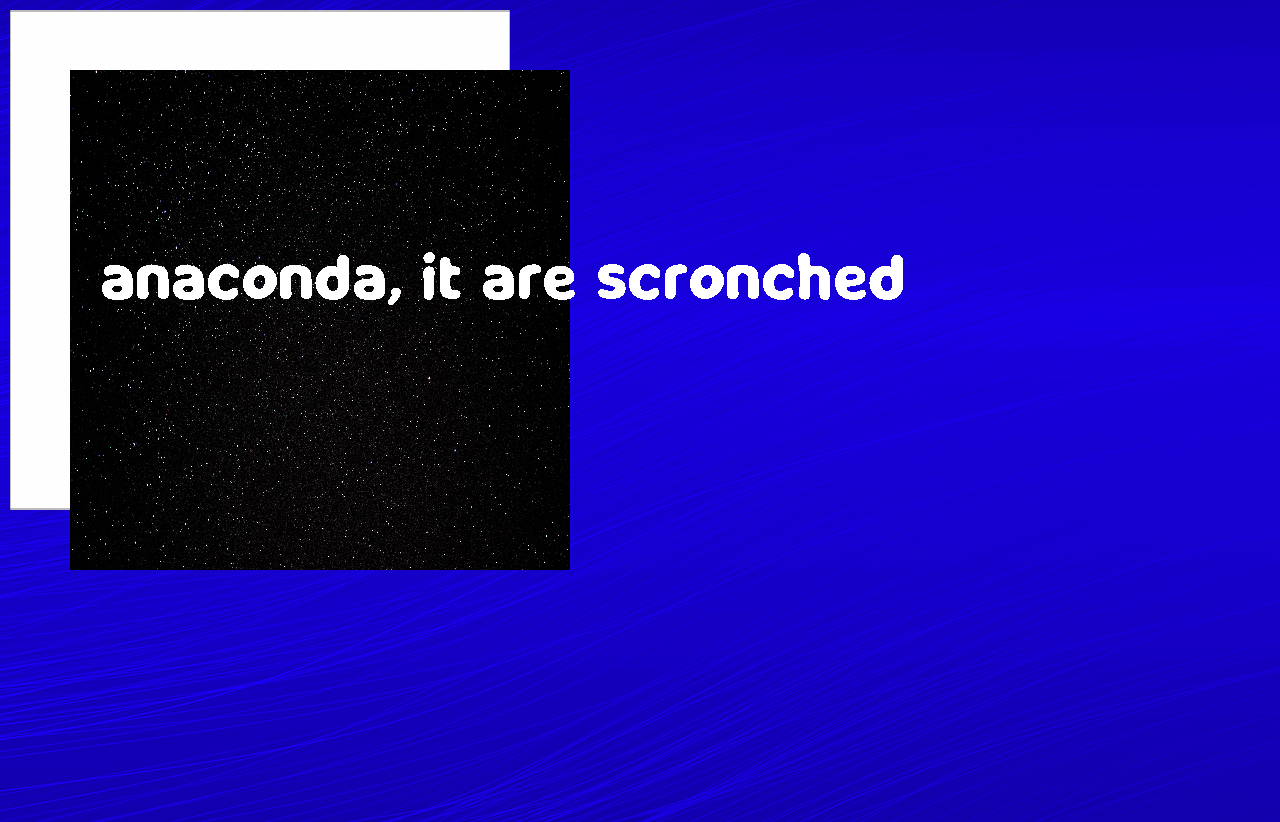
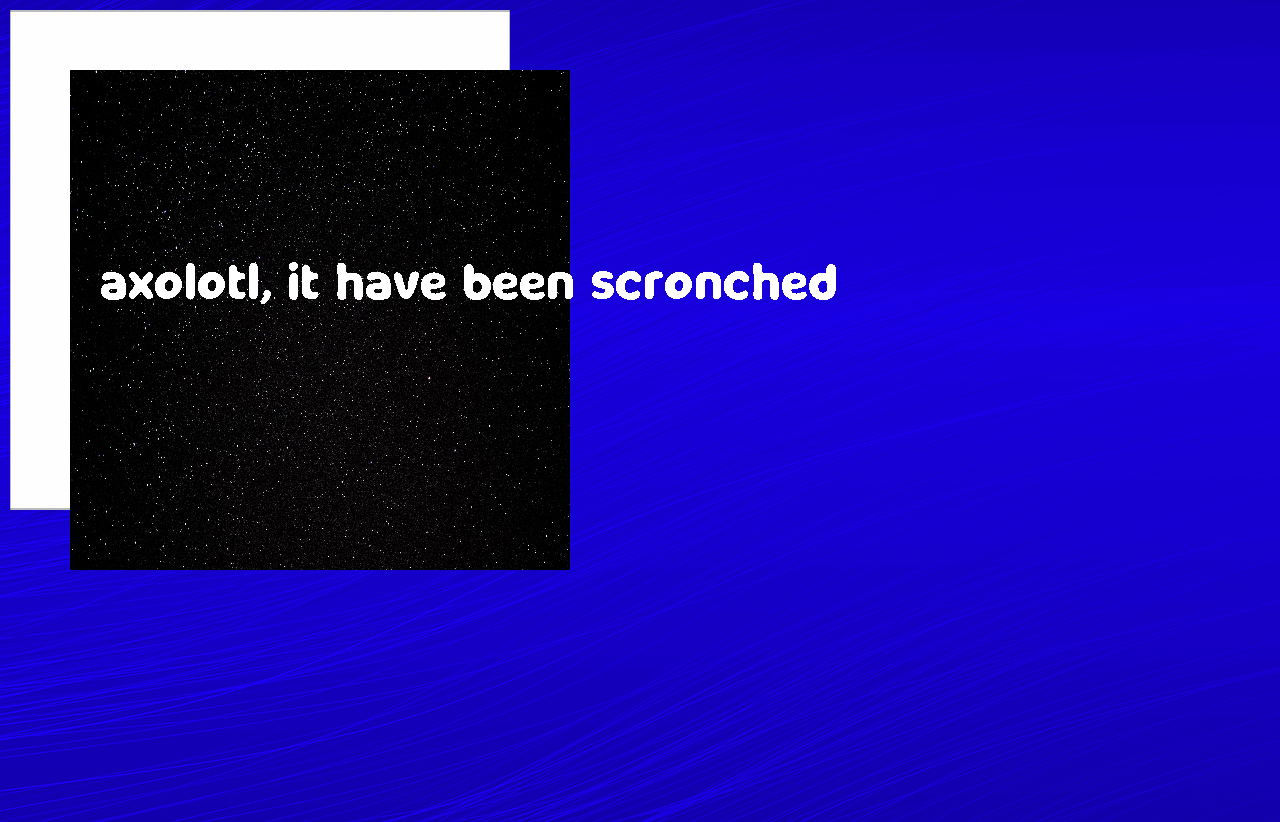
Fixed Bug: RandomWord returns null

Changed region(s): [[0.0625, 0.3041, 0.7188, 0.365]]

diff --git a/src/TextIO/TextParser.java b/src/TextIO/TextParser.java
@@ -1,65 +1,62 @@
 package TextIO;
 
-import TextIO.TextClasses.*;
 import java.io.BufferedReader;
-import java.io.FileNotFoundException;
 import java.io.FileReader;
 import java.io.IOException;
 import java.util.*;
-import java.util.stream.Collectors;
 
 /**
  * The TextParser class parses the dictionary
  * Returns a random word that is found in the dictionary
  */
 public class TextParser {
-    final List<String> availableTypes = Arrays.asList("Nouns", "Verbs", "Adjectives", "Conjunctions", "LinkingVerbs");
+    final HashSet<String> availableTypes = new HashSet<String>(Arrays.asList("Nouns", "Verbs", "Adjectives", "Conjunctions", "LinkingVerbs"));
     BufferedReader bfdRead;
     Random r = new Random();
 
     /**
      * Takes in a String and Type
      * Returns a random word that is found in the dictionary
+     *
      * @param textClass The class of an object, e.g. Furniture, Animal, Metal, etc. If none, use null
-     * @param type The type of the word, i.e. Noun, Verb or Name
+     * @param type      The type of the word, i.e. Noun, Verb or Name
      * @return Returns a String that is a random word
      */
     public String RandomWord(String textClass, String type) {
         String randWord = null;
-        List<String> lValues = null;
-        if(textClass == null) textClass = RandomTextClass(type);
+        List<String> lValues;
+        if (textClass == null) textClass = RandomTextClass(type);
 
+        // Get a list of the parse dictionary words
         try {
-            // Get a list of the parse dictionary words
             lValues = ParseText(textClass, type);
-            if (lValues != null) randWord = lValues.get(r.nextInt(lValues.size()));
+            if(lValues == null) lValues = ParseText(RandomTextClass(type), type);
+            randWord = lValues.get(r.nextInt(lValues.size()));
+            return randWord;
         } catch (Exception e) {
-            try {
-                lValues = ParseText(RandomTextClass(type), type);
-                if (lValues != null) randWord = lValues.get(r.nextInt(lValues.size()));
-            } catch (Exception exception) {
-                exception.printStackTrace();
-            }
+            e.printStackTrace();
         }
-        return randWord;
+        return null;
     }
 
-    final HashMap<String, List<String>> cachedParsedText = new HashMap<>();
+    final Map<String, List<String>> cachedParsedText = new HashMap<>();
 
     /**
      * Takes in a TextClass and type
      * Checks the cached text and if it exists, returns it
      * Otherwise reads the [type].list and appends it to an ArrayList
      * Returns the filteredList as an ArrayList of Strings
+     *
      * @param textClass The class of an object, e.g. Furniture, Animal, Metal, etc.
-     * @param type The type of the word, i.e. Noun, Verb or Name
+     * @param type      The type of the word, i.e. Noun, Verb or Name
      * @return Returns an filtered ArrayList of Strings containing all the words in the [type].list
      * @throws Exception Throws and Error if the provided type does not exist
      */
     private List<String> ParseText(String textClass, String type) throws Exception {
-        if(!availableTypes.contains(type)) throw new IllegalArgumentException("String type is not legal : Must be [Nouns], [Verbs] or [Name]");
+        if (!availableTypes.contains(type))
+            throw new IllegalArgumentException("String type is not legal : Must be [Nouns], [Verbs] or [Name]");
 
-        if(cachedParsedText.containsKey(textClass + type)) return cachedParsedText.get(textClass + type);
+        if (cachedParsedText.get(textClass + type) != null) return cachedParsedText.get(textClass + type);
 
         // Initialize Variables
         List<String> content = new ArrayList<>();
@@ -67,8 +64,8 @@ public class TextParser {
         String line;
 
         // Iterates through each line, filters the one matching the textClass and returns it
-        while((line = bfdRead.readLine()) != null) {
-            if(!line.startsWith(textClass)) continue;
+        while ((line = bfdRead.readLine()) != null) {
+            if (!line.startsWith(textClass)) continue;
             List<String> fLine = Arrays.asList(line.split(textClass + ":: ")[1].split(","));
             cachedParsedText.put(textClass + type, fLine);
             return fLine;
@@ -80,6 +77,7 @@ public class TextParser {
      * Takes in a String
      * Create a new ArrayList and initializes the BufferedReader
      * Uses the BufferedReader to append all the TextClasses to the ArrayList
+     *
      * @param filetype The type of file to search
      * @return Returns a String that is one of the textClasses in the filetype
      */
@@ -91,8 +89,8 @@ public class TextParser {
             String line;
 
             // Iterates through each line of the file and adds the split lines;
-            while((line = bfdRead.readLine()) != null) {
-                if(line.isEmpty() || line.startsWith("//") || line.contains("!")) continue;
+            while ((line = bfdRead.readLine()) != null) {
+                if (line.isEmpty() || line.startsWith("//") || line.contains("!")) continue;
                 textClasses.add(line.split(":: ")[0]);
             }
         } catch (IOException e) {

diff --git a/src/TextIO/SentenceCreator.java b/src/TextIO/SentenceCreator.java
@@ -4,8 +4,6 @@ import java.io.BufferedReader;
 import java.io.FileReader;
 import java.io.IOException;
 import java.util.ArrayList;
-import java.util.Arrays;
-import java.util.List;
 import java.util.Random;
 
 /**
@@ -20,6 +18,7 @@ public class SentenceCreator {
      * Create a sentence
      * Gets a random SentenceStructure from the list
      * Appends an appropriate word to the sentence
+     *
      * @return Returns a String that is the sentence
      */
     public String CreateSentence() {
@@ -32,20 +31,20 @@ public class SentenceCreator {
             String[] wordStruct = GetRandomSentenceStructure();
 
             // Iterates through each of the structs
-            for(String word : wordStruct) {
-                if(word.equals("<Subject>")) {
+            for (String word : wordStruct) {
+                if (word.equals("<Subject>")) {
                     sentence.append(tParser.RandomWord(ConfigEditor.GetConfig("Subject"), "Nouns"));
-                } else if(word.equals("<MVerb>")) {
+                } else if (word.equals("<MVerb>")) {
                     sentence.append(ConfigEditor.GetConfig("MVerb"));
-                }else if(word.startsWith("<!W>::")) {
+                } else if (word.startsWith("<!W>::")) {
                     sentence.append(word.split("::")[1]);
-                } else if(word.startsWith("<!S>::")) {
+                } else if (word.startsWith("<!S>::")) {
                     sentence.append(tParser.RandomWord(word.split("::")[1], word.split("::")[2]));
-                } else if(word.startsWith("<?O>")) {
-                    if(new Random().nextFloat() > 0.5) sentence.append(tParser.RandomWord(null, word.split("::")[1]));
-                } else if(word.startsWith("<$")) {
+                } else if (word.startsWith("<?O>")) {
+                    if (new Random().nextFloat() > 0.5) sentence.append(tParser.RandomWord(null, word.split("::")[1]));
+                } else if (word.startsWith("<$")) {
                     sentence.deleteCharAt(sentence.length() - 1).append(word.charAt(2));
-                }else {
+                } else {
                     sentence.append(tParser.RandomWord(null, word));
                 }
                 sentence.append(" ");
@@ -59,6 +58,7 @@ public class SentenceCreator {
     /**
      * Gets a random SentenceStructure
      * Creates a BufferedReader and uses it to get a random structure from the list
+     *
      * @return Returns a String that is the SentenceStructure
      * @throws IOException If an error occurs during the file parsing, it will be thrown
      */
@@ -68,8 +68,8 @@ public class SentenceCreator {
         String line;
 
         // Iterate through the file
-        while((line = bfdRead.readLine()) != null) {
-            if(line.startsWith("//") || line.isEmpty()) continue;
+        while ((line = bfdRead.readLine()) != null) {
+            if (line.startsWith("//") || line.isEmpty()) continue;
             wordStruct.add(line);
         }
 

diff --git a/src/ResourceIO/ImageEditor.java b/src/ResourceIO/ImageEditor.java
@@ -1,6 +1,7 @@
 package ResourceIO;
 
 import Util.Tuple;
+
 import java.awt.*;
 import java.awt.image.BufferedImage;
 
@@ -20,8 +21,9 @@ public class ImageEditor {
     /**
      * Takes in a new image, size and position
      * Draws the new image to the base image
-     * @param image - The new image to be drawn
-     * @param size - The size of the new image
+     *
+     * @param image    - The new image to be drawn
+     * @param size     - The size of the new image
      * @param position - The position of the new image
      */
     public void AddImage(BufferedImage image, Tuple<Integer, Integer> size, Tuple<Integer, Integer> position) {
@@ -34,9 +36,10 @@ public class ImageEditor {
      * Takes in a String and Position
      * Sets color to contrast background
      * Draws text to the base image
-     * @param bg The background image
-     * @param text The Text to be drawn
-     * @param font The Font to be used
+     *
+     * @param bg       The background image
+     * @param text     The Text to be drawn
+     * @param font     The Font to be used
      * @param position The position of where the text will be drawn
      */
     public void AddText(BufferedImage bg, String text, Tuple<String, Float> font, Tuple<Integer, Integer> position) {
@@ -57,17 +60,18 @@ public class ImageEditor {
      * Takes in text and boundary config
      * Resizes text to fit within boundary
      * Draws the text to base image
-     * @param text The text to be added
-     * @param padding The padding (width * 2) of the boundary
+     *
+     * @param text        The text to be added
+     * @param padding     The padding (width * 2) of the boundary
      * @param currentSize The current/default size of the font
-     * @param position The position of where the text should be drawn
-     * @param font The font of the text
+     * @param position    The position of where the text should be drawn
+     * @param font        The font of the text
      */
     private void DrawStringWithResizedText(String text, int padding, float currentSize, Tuple<Integer, Integer> position, Font font) {
         g2d.setFont(font.deriveFont(currentSize));
 
         // Loops though sizes until text fits horizontally
-        while(g2d.getFontMetrics().stringWidth(text) + position.x > bg.getWidth() - (padding * 2)) {
+        while (g2d.getFontMetrics().stringWidth(text) + position.x > bg.getWidth() - (padding * 2)) {
             currentSize -= currentSize / 5;
             g2d.setFont(font.deriveFont(currentSize));
         }

diff --git a/src/ResourceIO/ImageLoader.java b/src/ResourceIO/ImageLoader.java
@@ -2,12 +2,12 @@ package ResourceIO;
 
 import Util.ColorIO;
 import Util.Tuple;
+
 import javax.imageio.ImageIO;
 import java.awt.*;
 import java.awt.image.BufferedImage;
 import java.io.File;
 import java.io.IOException;
-import java.util.Arrays;
 
 /**
  * The ImageLoader class loads and saves images as well as other utility methods
@@ -16,6 +16,7 @@ public class ImageLoader {
 
     /**
      * Takes in a filename and loads that file through the Resources path
+     *
      * @param name The name of the file
      * @return Returns a BufferedImage
      */
@@ -35,9 +36,10 @@ public class ImageLoader {
      * Takes in an image, start position and area
      * Compares the light-dark RGB values to the sampled RGB values
      * Return WHITE or BLACK as a Color
+     *
      * @param image The background image
      * @param start The start position of the area
-     * @param size The size of the area
+     * @param size  The size of the area
      * @return return WHITE or BLACK as a Color
      */
     public Color GetDefaultImageColor(BufferedImage image, Tuple<Integer, Integer> start, Tuple<Float, Float> size) {
@@ -48,13 +50,15 @@ public class ImageLoader {
         float[] cRGB = {rgbValues[0] / (size.x * size.y), rgbValues[1] / (size.x * size.y), rgbValues[2] / (size.x * size.y)};
 
         // Compares the RGB values
-        if((cRGB[0] < 180 && cRGB[1] < 100 && cRGB[2] >= 245) || (cRGB[0] < 115 && cRGB[1] < 115 && cRGB[2] < 190)) return Color.WHITE;
+        if ((cRGB[0] < 180 && cRGB[1] < 100 && cRGB[2] >= 245) || (cRGB[0] < 115 && cRGB[1] < 115 && cRGB[2] < 190))
+            return Color.WHITE;
         return Color.BLACK;
     }
 
     /**
      * Takes in String and writes the edited image to the desired location
-     * @param name The name of the file
+     *
+     * @param name  The name of the file
      * @param image The final image
      */
     public void SaveImage(String name, BufferedImage image) {

diff --git a/src/Util/ColorIO.java b/src/Util/ColorIO.java
@@ -12,20 +12,21 @@ public class ColorIO {
      * Takes in an image, size and position
      * Iterates through each pixel and add the RGB values
      * Converts the RGB values to integers
-     * @param image The image to be used
+     *
+     * @param image    The image to be used
      * @param startPos The start position of the iteration-area
-     * @param size The area of the to-be-iterated pixels
+     * @param size     The area of the to-be-iterated pixels
      * @return Return a long[] with the sums of the RGB values
      */
     public long[] GetSampleColorOfArea(BufferedImage image, Tuple<Integer, Integer> startPos, Tuple<Float, Float> size) {
 
         // Iterates through the columns
-        for(int iW = 0; iW < image.getWidth(); iW++) {
-            if(iW < startPos.x || iW >= startPos.x + size.x ) continue;
+        for (int iW = 0; iW < image.getWidth(); iW++) {
+            if (iW < startPos.x || iW >= startPos.x + size.x) continue;
 
             // Iterates through the rows
-            for(int iH = 0; iH < image.getHeight(); iH++) {
-                if(iH < startPos.y || iH >= startPos.y + size.y) continue;
+            for (int iH = 0; iH < image.getHeight(); iH++) {
+                if (iH < startPos.y || iH >= startPos.y + size.y) continue;
 
                 // Converts the RGB values from bits to ints
                 int pixel = image.getRGB(iW, iH);

diff --git a/src/TextIO/ConfigEditor.java b/src/TextIO/ConfigEditor.java
@@ -12,7 +12,7 @@ public class ConfigEditor {
             String subject = tParser.RandomTextClass("Nouns");
 
             prtWrite.write("Subject:: " + subject + "\n");
-            if(new Random().nextFloat() > 0) {
+            if (new Random().nextFloat() > 0) {
                 prtWrite.write("MVerb:: " + tParser.RandomWord(subject + "!", "Verbs"));
             } else {
                 prtWrite.write("MVerb:: " + tParser.RandomWord(null, "Verbs"));
@@ -30,9 +30,9 @@ public class ConfigEditor {
             BufferedReader bfdRead = new BufferedReader(new FileReader("Resources/Data/config.data"));
             String line;
 
-            while((line = bfdRead.readLine()) != null) {
+            while ((line = bfdRead.readLine()) != null) {
                 String[] sLine = line.split(":: ");
-                if(sLine[0].equals(config)) configLine = sLine[1];
+                if (sLine[0].equals(config)) configLine = sLine[1];
             }
         } catch (IOException e) {
             e.printStackTrace();

diff --git a/src/ResourceIO/FontLoader.java b/src/ResourceIO/FontLoader.java
@@ -15,6 +15,7 @@ public class FontLoader {
      * Takes in a String name
      * Checks if the font already exists on cache and returns it
      * Otherwise create the fond and add it to cache
+     *
      * @param name The name of the font
      * @return The loaded font
      */
@@ -22,7 +23,7 @@ public class FontLoader {
         try {
 
             // Checks if the font is in cache
-            if(cachedFonts.get(name) == null) {
+            if (cachedFonts.get(name) == null) {
                 Font nFont = Font.createFont(Font.TRUETYPE_FONT, new File("Resources/Fonts/" + name));
                 cachedFonts.put(name, nFont);
                 return nFont;

diff --git a/src/Main/Generator.java b/src/Main/Generator.java
@@ -1,10 +1,12 @@
 package Main;
 
-import ResourceIO.*;
+import ResourceIO.ImageEditor;
+import ResourceIO.ImageLoader;
 import TextIO.ConfigEditor;
 import TextIO.SentenceCreator;
 import TextIO.TextParser;
 import Util.Tuple;
+
 import java.awt.image.BufferedImage;
 
 public class Generator {

diff --git a/src/Util/Tuple.java b/src/Util/Tuple.java
@@ -3,6 +3,7 @@ package Util;
 public class Tuple<X, Y> {
     public final X x;
     public final Y y;
+
     public Tuple(X x, Y y) {
         this.x = x;
         this.y = y;
